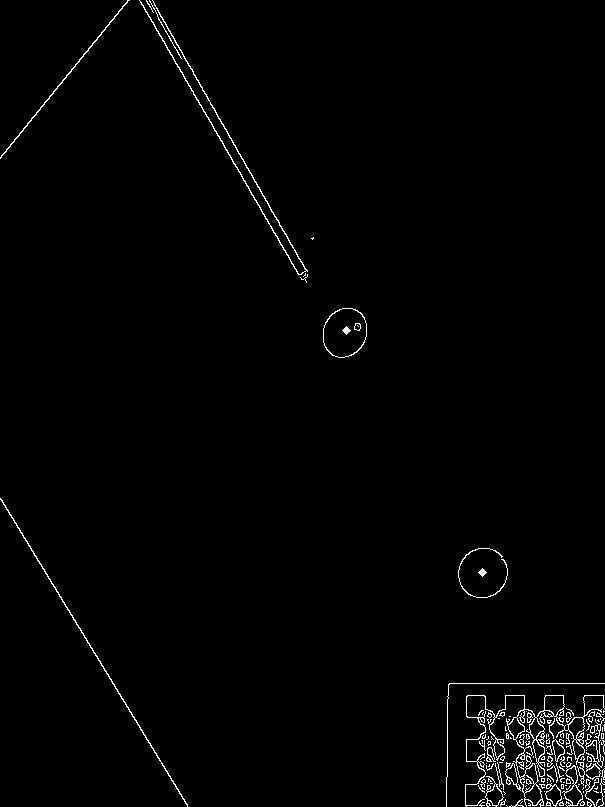
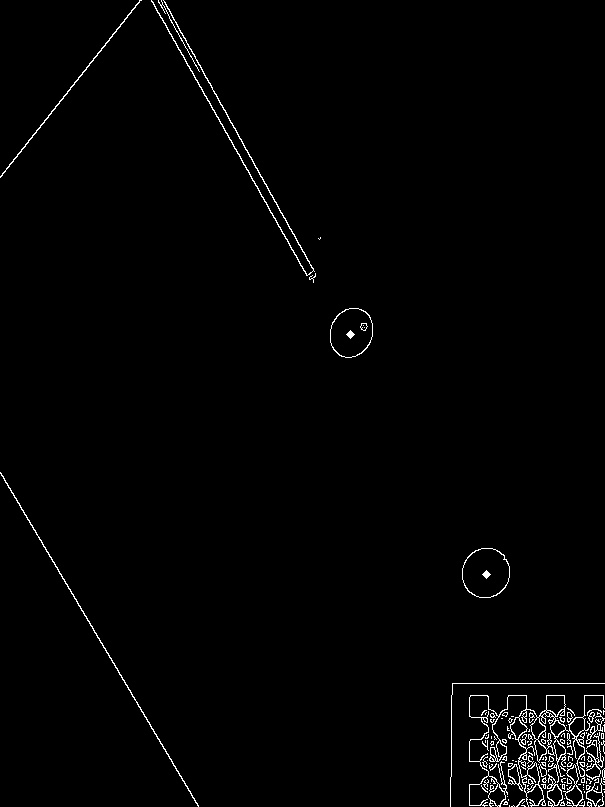
changes

diff --git a/additional_task/main.py b/additional_task/main.py
@@ -31,7 +31,7 @@ def find_corners(chessboard_points, image_shape):
 
 def get_destination_corners(image_shape):
     h, w = image_shape[:2]
-    return np.float32([[w-120, h-1], [w-120, h-90], [w-1, h-90], [w-1, h-1]])
+    return np.float32([[w-117, h-1], [w-117, h-90], [w-1, h-90], [w-1, h-1]])
 
 def get_perspective_image(image, source_corners, destination_corners, destination_shape):
     h, w = destination_shape
@@ -59,6 +59,16 @@ def calculate_new_position(points):
     new_y = np.uint16(A[1] - np.around((A[1] - B[1]) * k))
     return (new_x, new_y, B[2])
 
+def calculate_vector(points):
+    A, B = points
+    theta = np.arctan2(A[1]-B[1], A[0]-B[0])
+    endpt_x = int(A[0] + 1000*np.cos(theta))
+    endpt_y = int(A[1] + 1000*np.sin(theta))
+    return (endpt_x, endpt_y)
+
+def print_vector(image, start, end):
+    cv2.line(image, start, end, 255, 2)
+
 def main():
     chessboard_shape = (5, 7)
     image = cv2.imread("small_image.jpg")
@@ -71,6 +81,9 @@ def main():
     new_position = calculate_new_position(centers)
     result = perspective_image.copy()
     cv2.circle(result, (new_position[0], new_position[1]), new_position[2], (0, 0, 255), 4)
+
+    end = calculate_vector(centers)
+    print_vector(result, centers[0][:2], end)
 
     cv2.imshow("source image", image)
     cv2.imshow("image with centers", image_with_centers)
